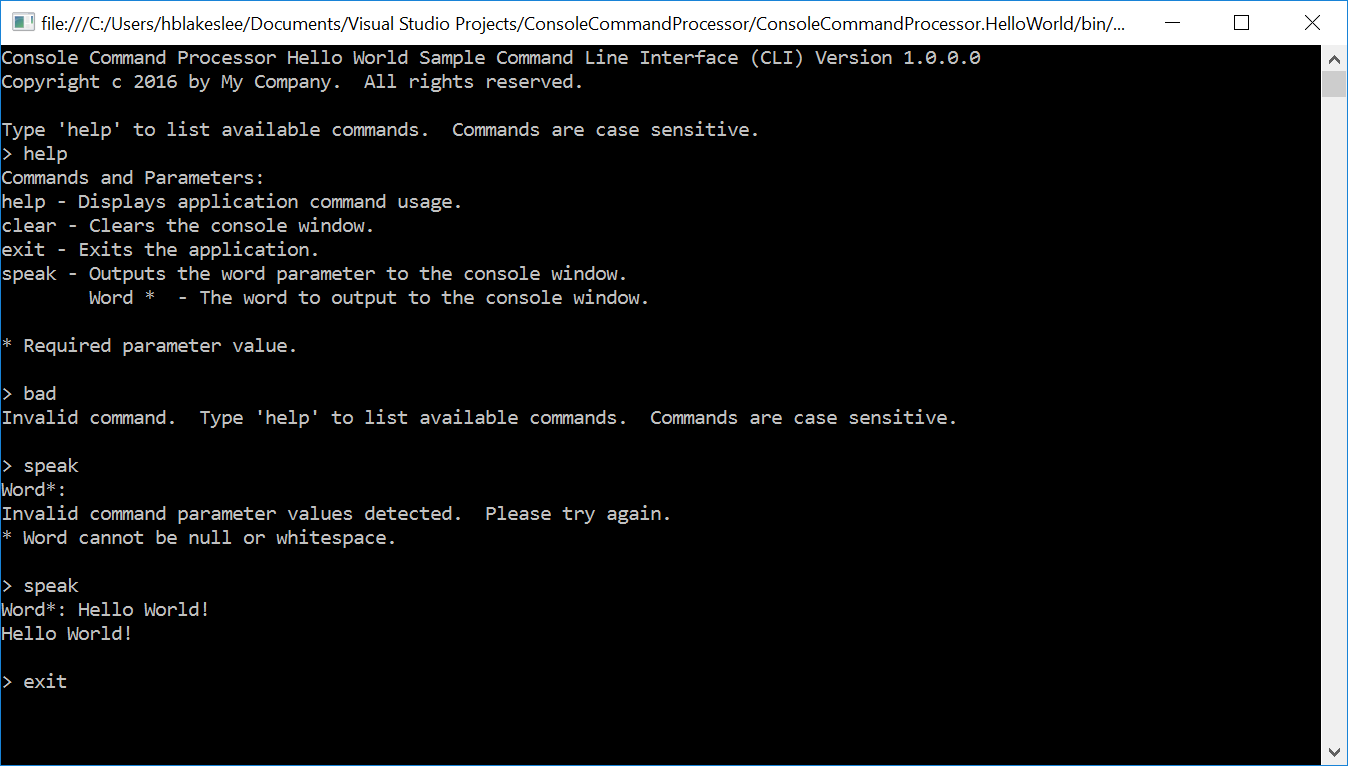
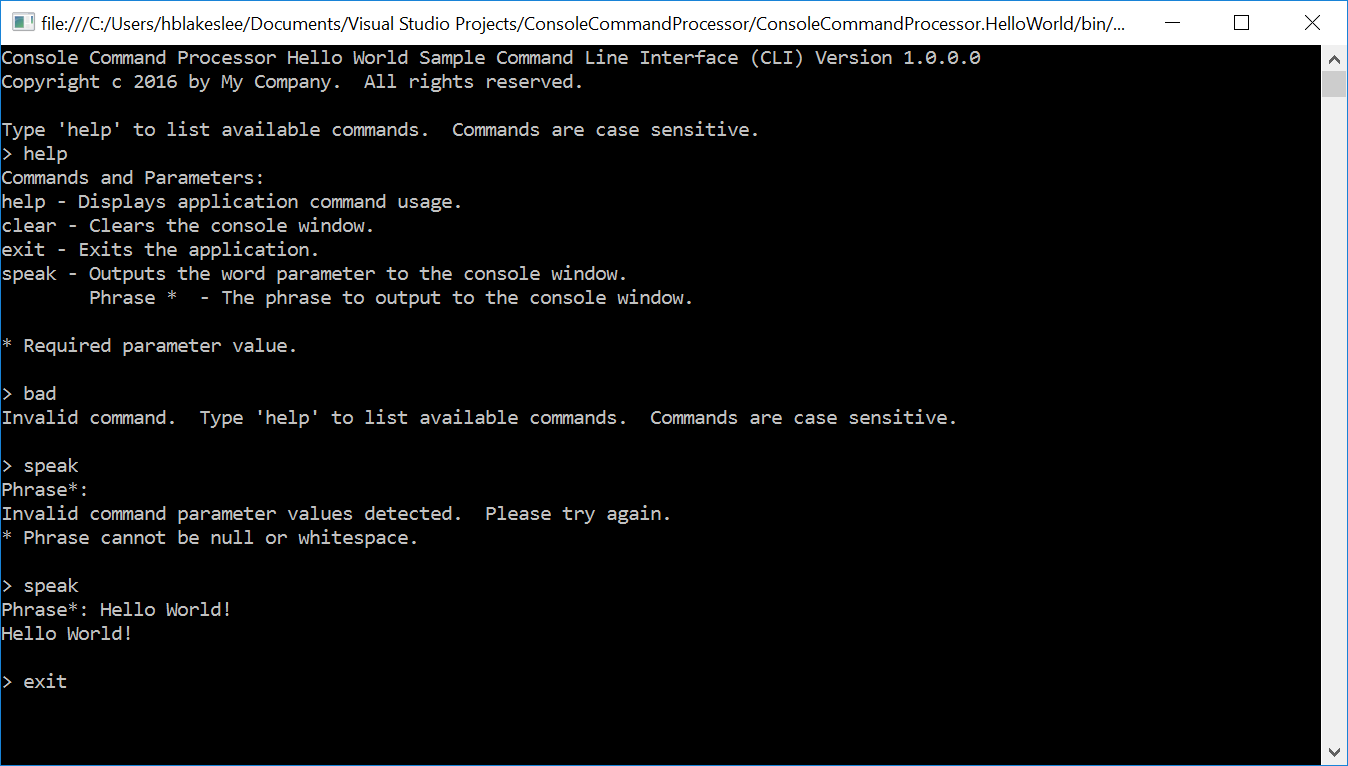
Updated hello world parameter name, screenshot and readme.

diff --git a/ConsoleCommandProcessor.HelloWorld/Program.cs b/ConsoleCommandProcessor.HelloWorld/Program.cs
@@ -15,14 +15,14 @@ namespace ConsoleCommandProcessor.HelloWorld
                 Description = "Outputs the word parameter to the console window.",
                 Execute = command =>
                 {
-                    Console.WriteLine($"{command.GetParameter("word").Value}");
+                    Console.WriteLine($"{command.GetParameter("phrase").Value}");
                     return Task.FromResult(0);
                 }
-            }).AddParameter("word", new Parameter
+            }).AddParameter("phrase", new Parameter
             {
-                Prompt = "Word",
-                Description = "The word to output to the console window.",
-                CantValidateMessage = "Word cannot be null or whitespace.",
+                Prompt = "Phrase",
+                Description = "The phrase to output to the console window.",
+                CantValidateMessage = "Phrase cannot be null or whitespace.",
                 Validate = value => Task.FromResult(!String.IsNullOrWhiteSpace(value))
             });
 

diff --git a/README.md b/README.md
@@ -17,14 +17,14 @@ static void Main(string[] args)
         Description = "Outputs the word parameter to the console window.",
         Execute = command =>
         {
-            Console.WriteLine($"{command.GetParameter("word").Value}");
+            Console.WriteLine($"{command.GetParameter("phrase").Value}");
             return Task.FromResult(0);
         }
-    }).AddParameter("word", new Parameter
+    }).AddParameter("phrase", new Parameter
     {
-        Prompt = "Word",
-        Description = "The word to output to the console window.",
-        CantValidateMessage = "Word cannot be null or whitespace.",
+        Prompt = "Phrase",
+        Description = "The phrase to output to the console window.",
+        CantValidateMessage = "Phrase cannot be null or whitespace.",
         Validate = value => Task.FromResult(!String.IsNullOrWhiteSpace(value))
     });
 
